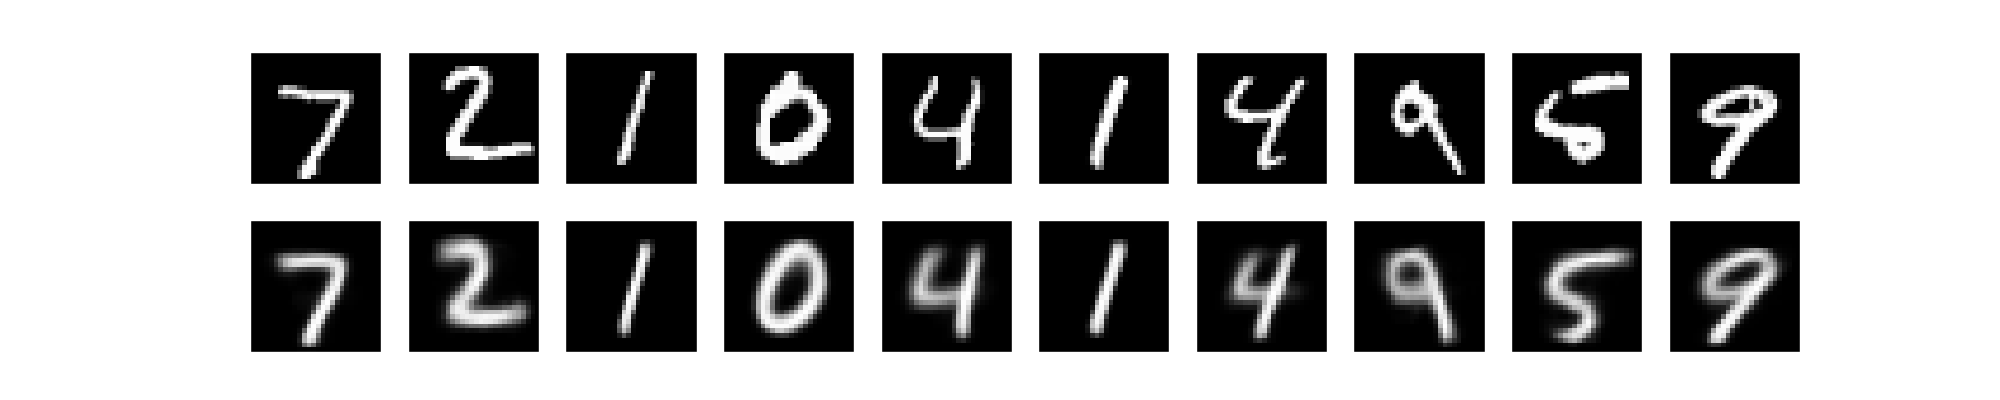
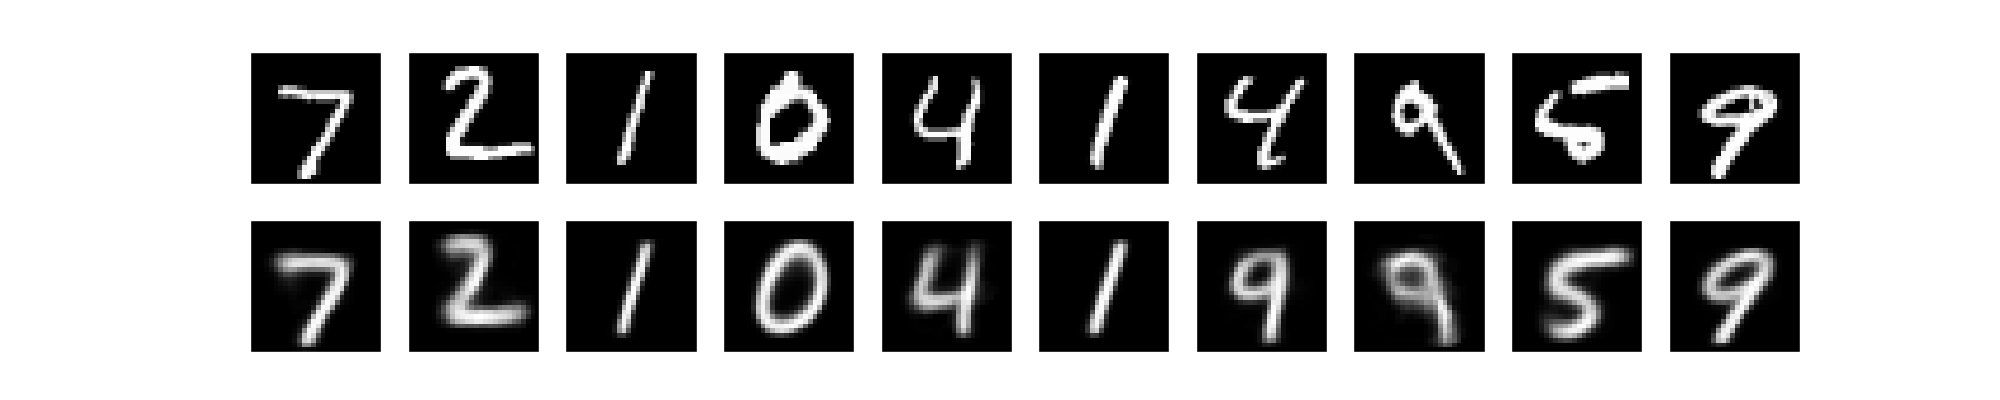
check point restore

diff --git a/restore_training.py b/restore_training.py
@@ -1,0 +1,175 @@
+#!/usr/bin/env python
+# -*- coding: utf-8 -*-
+# @Time    : 2020/3/10 10:12
+# @Author  : Flavorfan
+# @File    : restore_training.py
+
+import matplotlib
+matplotlib.use("Agg")
+
+import os
+
+# import the necessary packages
+import tensorflow as tf
+from tensorflow.keras.callbacks import ModelCheckpoint
+from tensorflow.keras.callbacks import TensorBoard
+from tensorflow.keras.optimizers import Adam
+from tensorflow.keras.datasets import mnist
+
+import datetime
+import matplotlib.pyplot as plt
+import numpy as np
+import argparse
+
+# import cv2
+
+from autoencoder.fan_autoencoder import FanAutoencoder
+from visualization.plot_autoencoder_result import training_plot
+
+# log
+from utils import root_logger
+import logging
+
+def arg_parse():
+    # global args
+    # construct the argument parse and parse the arguments
+    ap = argparse.ArgumentParser()
+    ap.add_argument("-s", "--samples", type=int, default=8,
+                    help="# number of samples to visualize when decoding")
+    ap.add_argument("-d", "--n_dims", nargs='+', type=int,
+                    help="n_dim of layers")
+    ap.add_argument("-c", "--code_dim", type=int, default=16,
+                    help="# code_dim - latent layer size ")
+    # train param
+    ap.add_argument("-e", "--epochs", type=int, default=25,
+                    help="# epochs  ")
+    ap.add_argument("-b", "--batch_size", type=int, default=128,
+                    help="# epochs  ")
+
+    # model instance name
+    ap.add_argument("-m", "--model_name", type=str, default="fan_fc_ae",
+                    help="# model instance name, also for save the file  ")
+
+    args = vars(ap.parse_args())
+
+    if 'n_dims' not in args:
+        args['n_dims'] = [256, 128]
+
+    return args
+
+
+# def train_and_checkpoint(net, manager):
+#     ckpt.restore(manager.latest_checkpoint)
+#     if manager.latest_checkpoint:
+#         logging.info("Restored from {}".format(manager.latest_checkpoint))
+#     else:
+#         logging.info("Initializing from scratch.")
+
+
+def load_mnist_data():
+    # load the MNIST dataset
+    logging.info(" loading MNIST dataset...")
+    ((trainX, _), (testX, _)) = mnist.load_data()
+    # add a channel dimension to every image in the dataset, then scale
+    # the pixel intensities to the range [0, 1]
+    trainX = np.expand_dims(trainX, axis=-1)  # (sample,w,h) -> (sample, w, h, d)
+    testX = np.expand_dims(testX, axis=-1)
+    trainX = trainX.astype("float32") / 255.0
+    testX = testX.astype("float32") / 255.0
+
+    return trainX, testX
+
+
+if __name__ == '__main__':
+    # init
+    args = arg_parse()
+    root_logger('./logs/log.txt')
+    logging.info(str(args))
+    # data
+    trainX, testX = load_mnist_data()
+
+    # checkpoints save and restore
+    ckpts_path = 'ckpts/' + args['model_name']
+    if not os.path.exists(ckpts_path):
+        os.makedirs(ckpts_path)
+
+    tb_log_path = 'logs/' + args['model_name']
+    if not os.path.exists(tb_log_path):
+        os.makedirs(tb_log_path)
+
+
+
+    opt = Adam(lr=1e-3)
+    (encoder, decoder, autoencoder) = FanAutoencoder.build(28, 28, 1, args['n_dims'], args['code_dim'])
+    autoencoder.compile(loss="mse", optimizer=opt)
+
+    # load the latest ckpt
+    save_dir = os.path.join(os.getcwd(), ckpts_path)
+    # latest = tf.train.latest_checkpoint(save_dir)
+    logging.info(save_dir)
+    # logging.info(latest)
+    latest = '/home/algo/code/gitrepo/pylib/ml-playground/ckpts/fc_1000_500_250_2/model_94.hdf5'
+    autoencoder.load_weights(latest)
+
+    # loss,acc = autoencoder.evaluate(testX, testX) # may be wrong
+    # logging.info("Restored model, accuracy: {:5.2f}%".format(100 * acc))
+
+    callbacks = [
+        ModelCheckpoint(
+            filepath=ckpts_path + '/fc_ae_{epoch}',
+            save_best_only=True,
+            monitor='val_loss',
+            verbose=1),
+        TensorBoard(log_dir=tb_log_path)
+    ]
+
+    EPOCHS = args['epochs']  # 25
+    BS = args['batch_size']  # 32
+
+    H = autoencoder.fit(
+        trainX, trainX,
+        validation_data=(testX, testX),
+        epochs=EPOCHS,
+        batch_size=BS,
+        callbacks=callbacks)
+
+    now = datetime.datetime.now()
+    time_str = now.strftime('%Y%m%d_%H%M%S')
+    plot_name = 'training_plot/{}_{}.png'.format(args['model_name'],time_str)
+    training_plot(H, plot_name, EPOCHS)
+
+    logging.info(" making predictions...")
+    decoded = autoencoder.predict(testX)
+    outputs = None
+
+    output_name = 'output/{}_{}.png'.format(args['model_name'],time_str)
+    plt.figure(figsize=(20, 4))
+    n = args["samples"]
+    for i in range(n):
+        # display original
+        ax = plt.subplot(2, n, i + 1)
+        original = (testX[i].reshape(28, 28) * 255).astype("uint8")
+        recon = (decoded[i].reshape(28, 28) * 255).astype("uint8")
+
+        plt.imshow(original)
+        plt.gray()
+        ax.get_xaxis().set_visible(False)
+        ax.get_yaxis().set_visible(False)
+
+        # display reconstruction
+        ax = plt.subplot(2, n, i + 1 + n)
+        plt.imshow(recon)
+        plt.gray()
+        ax.get_xaxis().set_visible(False)
+        ax.get_yaxis().set_visible(False)
+        # if savename:
+        #     plt.savefig(savename)
+        plt.savefig(output_name)
+
+    logging.info(" Done!")
+
+    # ckpt = tf.train.Checkpoint(step=tf.Variable(1), optimizer=opt, net=autoencoder)
+    # manager = tf.train.CheckpointManager(ckpt, ckpts_path, max_to_keep=3)
+
+    # train_and_checkpoint(autoencoder, manager)
+

diff --git a/train_fan_autoencoder.py b/train_fan_autoencoder.py
@@ -9,6 +9,8 @@ from tensorflow.keras.callbacks import TensorBoard
 from tensorflow.keras.optimizers import Adam
 from tensorflow.keras.datasets import mnist
 
+import datetime
+
 import matplotlib.pyplot as plt
 import numpy as np
 import argparse
@@ -107,9 +109,12 @@ tb_log_path = 'logs/' + args['model_name']
 if not os.path.exists(tb_log_path):
     os.makedirs(tb_log_path)
 
+save_dir = os.path.join(os.getcwd(), ckpts_path)
+filepath="model_{epoch:02d}.hdf5"
+
 callbacks = [
     ModelCheckpoint(
-        filepath= ckpts_path + '/fc_ae_{epoch}',
+        filepath= os.path.join(save_dir, filepath),
         save_best_only=True,
         monitor='val_loss',
         verbose=1),
@@ -129,8 +134,10 @@ H = autoencoder.fit(
 
 
 
+now = datetime.datetime.now()
+time_str = now.strftime('%Y%m%d_%H%M%S')
 
-plot_name = 'training_plot/{}.png'.format(args['model_name'])
+plot_name = 'training_plot/{}_{}.png'.format(args['model_name'],time_str)
 training_plot(H,plot_name)
 
 # use the convolutional autoencoder to make predictions on the
@@ -141,8 +148,7 @@ outputs = None
 
 # loop over our number of output samples
 
-output_name = 'output/{}.png'.format(args['model_name'])
-
+output_name = 'output/{}_{}.png'.format(args['model_name'],time_str)
 plt.figure(figsize=(20, 4))
 n = args["samples"]
 for i in range(n):

diff --git a/visualization/plot_autoencoder_result.py b/visualization/plot_autoencoder_result.py
@@ -1,0 +1,37 @@
+import tensorflow as tf
+import matplotlib.pyplot as plt
+import numpy as np
+
+def training_plot(H,filename, epochs):
+    # construct a plot that plots and saves the training history
+    N = np.arange(0, epochs)
+    plt.style.use("ggplot")
+    plt.figure()
+    plt.plot(N, H.history["loss"], label="train_loss")
+    plt.plot(N, H.history["val_loss"], label="val_loss")
+    plt.title("Training Loss and Accuracy")
+    plt.xlabel("Epoch #")
+    plt.ylabel("Loss/Accuracy")
+    plt.legend(loc="lower left")
+    plt.savefig(filename)
+
+def plot_model_result(input_imgs, decoded_imgs, n, savename=None):
+    plt.figure(figsize=(20, 4))
+
+    for i in range(n):
+        # display original
+        ax = plt.subplot(2, n, i + 1)
+        plt.imshow(input_imgs[i].reshape(28, 28))
+        plt.gray()
+        ax.get_xaxis().set_visible(False)
+        ax.get_yaxis().set_visible(False)
+
+        # display reconstruction
+        ax = plt.subplot(2, n, i + 1 + n)
+        plt.imshow(decoded_imgs[i].reshape(28, 28))
+        plt.gray()
+        ax.get_xaxis().set_visible(False)
+        ax.get_yaxis().set_visible(False)
+    if  savename:
+        plt.savefig(savename)
+    plt.show()

diff --git a/README.md b/README.md
@@ -10,8 +10,9 @@ training_plot   : training loss and accuracy
 
 ### 可视化/结果保存
 -s number of samples to visualize when decoding
--o path to output visualization file
--p path to output train loss plot file
+//-o path to output visualization file 
+//-p path to output train loss plot file
+-m model name 
 
 ### 模型结构
 -d n_dim of layers
@@ -21,21 +22,19 @@ training_plot   : training loss and accuracy
 -e epochs
 -b batch_size
 
+### 案例
 
-# 2 案例
+* 784 - [256,128] - 16 - [ 128, 256 ] - 784 
+python train_fan_autoencoder.py  -s 10 -m fc_256_128_16 -d 256 128 -c 16
 
-## 训练一个 784 - [256,128] - 16 - [ 128, 256 ] - 784 的autoencoder
-python train_fan_autoencoder.py  -s 10 -o output/fc_256_128_16.png -p training_plot/training_fc_256_128_16.png -d 256 128 -c 16
+* 784 - [256,128] - 16 - [ 128, 256 ] - 784 
+python train_fan_autoencoder.py  -s 10 -m fc_256_128_2.png -d 256 128 -c 2 -e 25
 
-## 训练一个 784 - [256,128] - 16 - [ 128, 256 ] - 784 的autoencoder
-python train_fan_autoencoder.py  -s 10 -o output/fc_256_128_2.png -p training_plot/training_fc_256_128_2.png -d 256 128 -c 2 -e 25
-
-## 
-python train_fan_autoencoder.py  -s 10 -o output/fc_1000_500_250_2.png -p training_plot/training_fc_1000_500_250_2.png -d 1000 500 250 -c 2 -e 25
-
-## 参数改版，用model name 自动生成 结果图 和 training 过程图
+* 784 - [1000,500,250] - 2 - [250,500,1000] - 784 
 python train_fan_autoencoder.py  -s 10  -m fc_1000_500_250_2 -d 1000 500 250 -c 2 -e 100
 
+## restore_training.py 参数
+python restore_training.py  -s 10  -m fc_1000_500_250_2 -d 1000 500 250 -c 2 -e 100
 
 # 参考
 Autoencoders with Keras, TensorFlow, and Deep Learning
